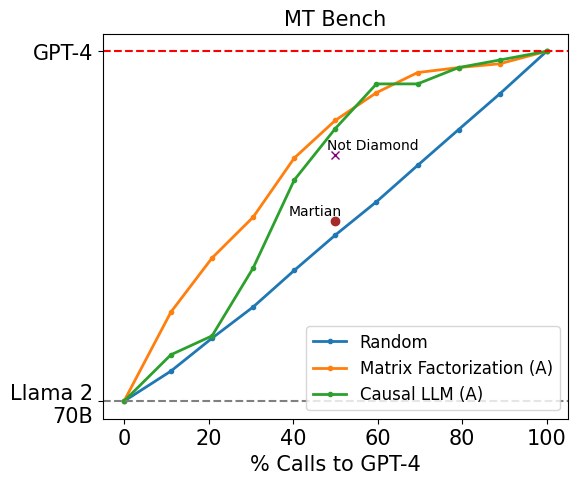
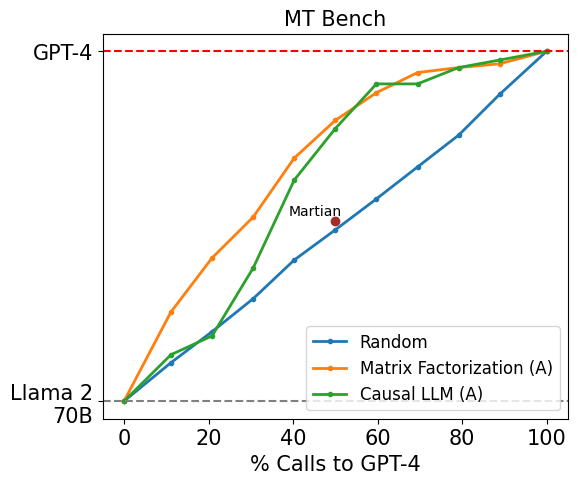
Update plots

diff --git a/blog/2024-07-01-routellm.md b/blog/2024-07-01-routellm.md
@@ -5,13 +5,13 @@ date: "July 1, 2024"
 previewImg: /images/blog/routellm/cover.png
 ---
 
-LLMs have demonstrated remarkable capabilities across a range of tasks, but there exists wide variation in the costs and capabilities of different LLMs, as seen from a plot of performance against cost of LLMs in Figure 1. Very broadly, more capable models tend to be more expensive than less capable models. This leads to a dilemma when deploying LLMs in the real-world - routing all queries to the largest, most capable model leads to the highest-quality responses but can be expensive, while routing queries to smaller models can save costs but may result in lower-quality responses.
+LLMs have demonstrated remarkable capabilities across a range of tasks, but there exists wide variation in their costs and capabilities, as seen from a plot of performance against cost in Figure 1. Very broadly, more capable models tend to be more expensive than less capable models. This leads to a dilemma when deploying LLMs in the real-world - routing all queries to the largest, most capable model leads to the highest-quality responses but can be expensive, while routing queries to smaller models can save costs but may result in lower-quality responses.
 
 <img src="/images/blog/routellm/main.png" style="display:block; margin-top: auto; margin-left: auto; margin-right: auto; margin-bottom: auto; width: 50%"></img>
 
 <p style="color:gray; text-align: center;">Figure 1: Plot of performance against cost of various LLMs. Performance is measured by Elo on Chatbot Arena, and cost per million tokens assuming a 1:1 input / output ratio. Through routing between two models, we ideally achieve a better performance:cost ratio than can be achieved with either model.</p>
 
-LLM routing offers a solution to this problem, whereby each query is first processed by a system that decides which LLM to route it to. Ideally, the system should route all queries that can be sufficiently handled by weaker models to such models, and all other queries to stronger models, minimizing cost while maintaining response quality. However, this turns out to be a challenging problem because the routing system has to infer both the characteristics of an incoming query and different models’ capabilities before routing.
+*LLM routing* offers a solution to this problem, whereby each query is first processed by a system that decides which LLM to route it to. Ideally, the system should route all queries that can be sufficiently handled by weaker models to such models, and all other queries to stronger models, minimizing cost while maintaining response quality. However, this turns out to be a challenging problem because the routing system has to infer both the characteristics of an incoming query and different models’ capabilities before routing.
 
 To tackle this, we present **RouteLLM**, a principled framework for LLM routing using preference data. We formalize the problem of LLM routing and explore techniques to understand and improve router performance. Using these ideas, we trained four different routers using data from Chatbot Arena and demonstrate that they can significantly reduce costs without compromising quality on widely-used benchmarks, with **cost reductions of up to 70% on MT Bench, 30% on MMLU, and 40% on GSM8K** for the same performance relative to a random baseline. We also release our code and datasets publicly, including a new [open-source library](https://github.com/lm-sys/RouteLLM) for serving and evaluating LLM routers.
 
@@ -82,7 +82,7 @@ Even when the model pair is replaced, we observe strong results across all exist
 
 <p style="color:gray; text-align: center;">Figure 7: Comparison of our router against existing routing systems on MT Bench (left) using gpt-4-turbo-2024-04-09 and llama-2-70b-chat (right) using gpt-4-turbo-2024-04-09 and mixtral-8x7b-instruct-v0.1 </p>
 
-In Figure 7, we also report the performance of our best-performing routers on MT Bench against [Martian](https://withmartian.com/), [Unify AI](https://unify.ai/) and [Not Diamond](https://www.notdiamond.ai/notdiamond-0001), existing LLM routing systems released by companies. We use `gpt-4-turbo-2024-04-09` as the strong model and `llama-2-70b-chat` or `mixtral-8x7b-instruct-v0.1` as the weak model depending on the models available. Our routers demonstrate very competitive results, achieving the same performance as other routers while being up to 40% cheaper.
+In Figure 7, we also report the performance of our best-performing routers on MT Bench against [Martian](https://withmartian.com/) and [Unify AI](https://unify.ai/), two existing LLM routing products. We use `gpt-4-turbo-2024-04-09` as the strong model and `llama-2-70b-chat` or `mixtral-8x7b-instruct-v0.1` as the weak model depending on the models available. Our routers demonstrate very competitive results, achieving the same performance as these routers while being up to 40% cheaper.
 
 ## Conclusion
 
